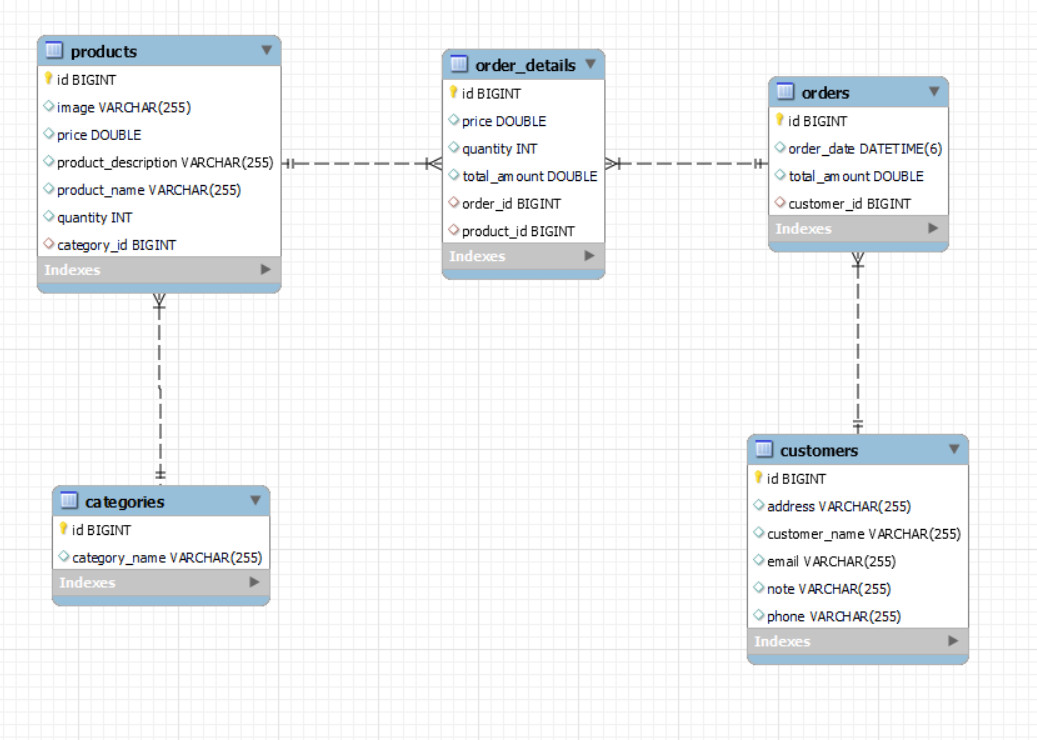
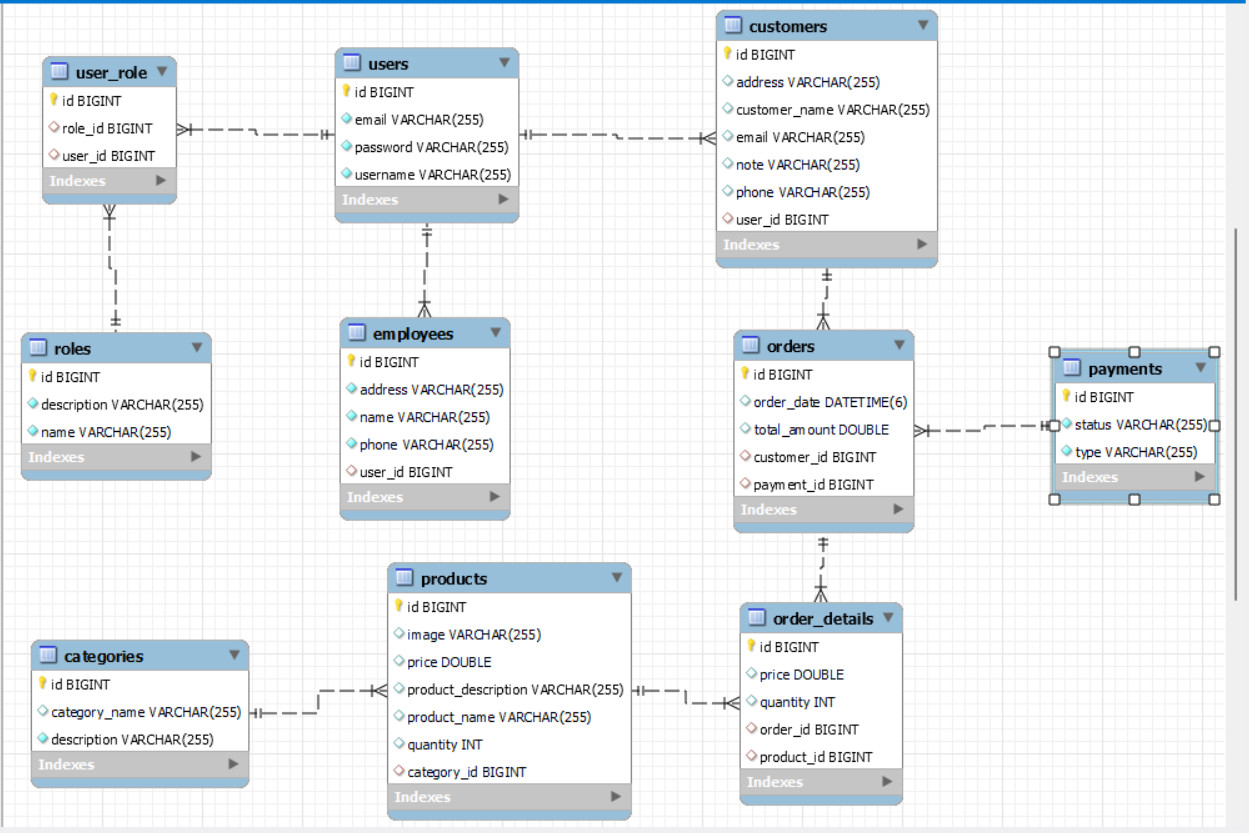
TaiLH update ERD

diff --git a/BE/sprint2/src/main/java/com/example/sprint2/model/User.java b/BE/sprint2/src/main/java/com/example/sprint2/model/User.java
@@ -1,0 +1,28 @@
+package com.example.sprint2.model;
+
+import javax.persistence.*;
+import java.util.ArrayList;
+import java.util.List;
+
+@Entity
+@Table(name = "users")
+public class User {
+    @Id
+    @GeneratedValue(strategy = GenerationType.IDENTITY)
+    private Long id;
+
+    @Column(name = "username", nullable = false, unique = true)
+    private String username;
+
+    @Column(name = "password", nullable = false)
+    private String password;
+
+    @Column(name = "email", nullable = false, unique = true)
+    private String email;
+
+    @ManyToMany(cascade = CascadeType.ALL)
+    @JoinTable(name = "user_role",
+            joinColumns = {@JoinColumn(name = "user_id")},
+            inverseJoinColumns = {@JoinColumn(name = "role_id")})
+    private List<Role> roles = new ArrayList<>();
+}

diff --git a/BE/sprint2/src/main/java/com/example/sprint2/model/Payment.java b/BE/sprint2/src/main/java/com/example/sprint2/model/Payment.java
@@ -1,0 +1,22 @@
+package com.example.sprint2.model;
+
+import javax.persistence.*;
+import java.util.ArrayList;
+import java.util.List;
+
+@Entity
+@Table(name = "payments")
+public class Payment {
+    @Id
+    @GeneratedValue(strategy = GenerationType.IDENTITY)
+    private Long id;
+
+    @Column(name = "type", nullable = false)
+    private String type;
+
+    @Column(name = "status", nullable = false)
+    private String status;
+
+    @OneToMany(mappedBy = "payment", fetch = FetchType.LAZY, cascade = CascadeType.ALL)
+    private List<Order> orders = new ArrayList<>();
+}

diff --git a/BE/sprint2/src/main/java/com/example/sprint2/model/Employee.java b/BE/sprint2/src/main/java/com/example/sprint2/model/Employee.java
@@ -1,0 +1,24 @@
+package com.example.sprint2.model;
+
+import javax.persistence.*;
+
+@Entity
+@Table(name = "employees")
+public class Employee {
+    @Id
+    @GeneratedValue(strategy = GenerationType.IDENTITY)
+    private Long id;
+
+    @OneToOne(fetch = FetchType.LAZY)
+    @JoinColumn(name = "user_id")
+    private User user;
+
+    @Column(name = "name", nullable = false)
+    private String name;
+
+    @Column(name = "address", nullable = false)
+    private String address;
+
+    @Column(name = "phone", nullable = false)
+    private String phone;
+}

diff --git a/BE/sprint2/src/main/java/com/example/sprint2/model/Role.java b/BE/sprint2/src/main/java/com/example/sprint2/model/Role.java
@@ -1,0 +1,22 @@
+package com.example.sprint2.model;
+
+import javax.persistence.*;
+import java.util.ArrayList;
+import java.util.List;
+
+@Entity
+@Table(name = "roles")
+public class Role {
+    @Id
+    @GeneratedValue(strategy = GenerationType.IDENTITY)
+    private Long id;
+
+    @Column(name = "name", nullable = false)
+    private String name;
+
+    @Column(name = "description", nullable = false)
+    private String description;
+
+    @ManyToMany(mappedBy = "roles")
+    private List<User> users = new ArrayList<>();
+}

diff --git a/BE/sprint2/src/main/java/com/example/sprint2/model/OrderDetail.java b/BE/sprint2/src/main/java/com/example/sprint2/model/OrderDetail.java
@@ -23,8 +23,6 @@ public class OrderDetail {
     @Column(name = "price")
     private Double price;
 
-    @Column(name = "total_amount")
-    private Double totalAmount;
 
     public OrderDetail() {
     }
@@ -69,11 +67,4 @@ public class OrderDetail {
         this.price = price;
     }
 
-    public Double getTotalAmount() {
-        return totalAmount;
-    }
-
-    public void setTotalAmount(Double totalAmount) {
-        this.totalAmount = totalAmount;
-    }
 }

diff --git a/BE/sprint2/src/main/java/com/example/sprint2/model/UserRole.java b/BE/sprint2/src/main/java/com/example/sprint2/model/UserRole.java
@@ -1,0 +1,19 @@
+package com.example.sprint2.model;
+
+import javax.persistence.*;
+
+@Entity
+@Table(name = "user_role")
+public class UserRole {
+    @Id
+    @GeneratedValue(strategy = GenerationType.IDENTITY)
+    private Long id;
+
+    @ManyToOne(fetch = FetchType.LAZY)
+    @JoinColumn(name = "user_id")
+    private User user;
+
+    @ManyToOne(fetch = FetchType.LAZY)
+    @JoinColumn(name = "role_id")
+    private Role role;
+}

diff --git a/BE/sprint2/src/main/java/com/example/sprint2/model/Customer.java b/BE/sprint2/src/main/java/com/example/sprint2/model/Customer.java
@@ -1,6 +1,7 @@
 package com.example.sprint2.model;
 
 import javax.persistence.*;
+import javax.validation.constraints.NotBlank;
 import java.util.Set;
 
 @Entity
@@ -27,6 +28,11 @@ public class Customer {
 
     @OneToMany(mappedBy = "customer")
     private Set<Order> orderList;
+
+    @OneToOne(fetch = FetchType.LAZY)
+    @JoinColumn(name = "user_id")
+
+    private User user;
 
     public Customer() {
     }

diff --git a/BE/sprint2/src/main/java/com/example/sprint2/model/Category.java b/BE/sprint2/src/main/java/com/example/sprint2/model/Category.java
@@ -13,6 +13,9 @@ public class Category {
     @Column(name = "category_name")
     private String categoryName;
 
+    @Column(name = "description", nullable = false)
+    private String description;
+
     @OneToMany(mappedBy = "category")
     private Set<Product> productList;
 

diff --git a/BE/sprint2/src/main/java/com/example/sprint2/model/Order.java b/BE/sprint2/src/main/java/com/example/sprint2/model/Order.java
@@ -24,6 +24,11 @@ public class Order {
     @OneToMany(mappedBy = "order")
     private Set<OrderDetail> orderDetailList;
 
+
+    @ManyToOne(fetch = FetchType.LAZY)
+    @JoinColumn(name = "payment_id")
+    private Payment payment;
+
     public Order() {
     }
 
